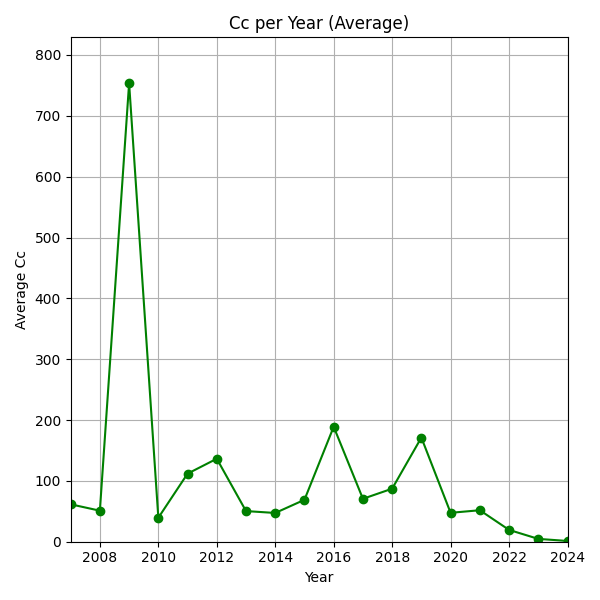
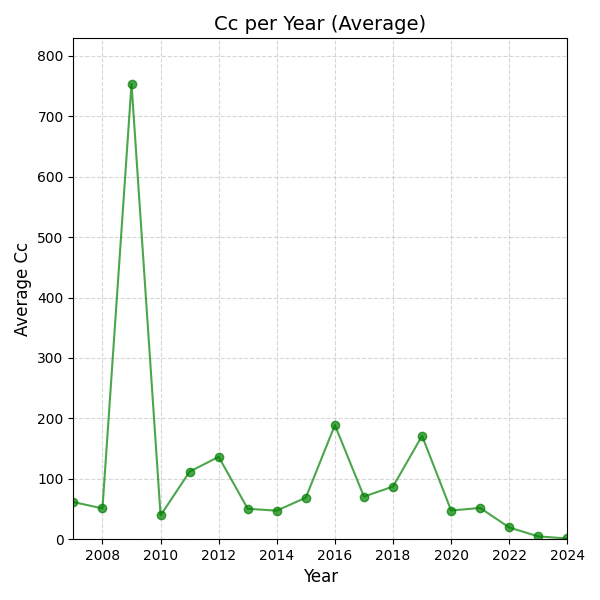
Fix script creating plots

diff --git a/bip-indicators/create_plots.py b/bip-indicators/create_plots.py
@@ -5,13 +5,38 @@ import os
 # Step 1: Read the input TSV file
 df = pd.read_csv('enriched_aggregated_papers_with_topics_and_bip_scores.csv', sep='\t')  # Replace with actual input filename
 
-# Step 2: Extract the first year if Year contains multiple years (e.g., "2022 | 2024")
+# Step 2: Extract the first year if 'Year' contains multiple years (e.g., "2022 | 2024")
 df['Year'] = df['Year'].apply(lambda x: str(x).split(' |')[0])  # Take the first year if it's a range
 df['Year'] = pd.to_numeric(df['Year'], errors='coerce')  # Convert to numeric and handle errors
 
-# Step 3: For pop_class, inf_class, count values not equal to 'C5' and calculate averages per year
+# Step 3: Group by 'Year' and calculate the average for 'popularity', 'influence', 'cc', and 'impulse'
+metrics = ['popularity', 'influence', 'cc', 'impulse']
+yearly_metrics = df.groupby('Year')[metrics].mean()
 
-# Function to count occurrences where class is not 'C5' for each year
+# Step 4: Create output folder 'plots' if it doesn't exist
+output_folder = 'plots'
+if not os.path.exists(output_folder):
+    os.makedirs(output_folder)
+
+# Step 5: Plot the results for each metric and save the figures
+for metric in metrics:
+    plt.figure(figsize=(6, 6))  # Square figure
+    plt.plot(yearly_metrics.index, yearly_metrics[metric], marker='o', linestyle='-', color='green', alpha=0.7)
+    plt.title(f'{metric.capitalize()} per Year (Average)', fontsize=14)
+    plt.xlabel('Year', fontsize=12)
+    plt.ylabel(f'Average {metric.capitalize()}', fontsize=12)
+    
+    # Set x-axis limits from min to max year and y-axis to start from 0
+    plt.xlim(yearly_metrics.index.min(), yearly_metrics.index.max())
+    plt.ylim(0, yearly_metrics[metric].max() * 1.1)  # To add some space above the max value
+
+    plt.grid(True, linestyle='--', alpha=0.5)
+    plt.tight_layout()
+    # Save the plot in the 'plots' folder
+    plt.savefig(f'{output_folder}/{metric}_per_year_avg.png')
+    plt.close()
+
+# Step 6: For pop_class, inf_class, count values not equal to 'C5' and calculate averages per year
 def count_not_C5(df, class_column):
     return df[df[class_column] != 'C5'].groupby('Year').size()
 
@@ -25,10 +50,10 @@ count_metrics = pd.DataFrame({
     'inf_class_count': inf_class_count
 })
 
-# Step 4: Plot the number of papers considered per year
+# Step 7: Plot the number of papers considered per year
 papers_per_year = df.groupby('Year').size()
 
-# Step 5: Create the bar chart for total papers, popular works, and influential works per year
+# Step 8: Create the bar chart for total papers, popular works, and influential works per year
 # Combine the metrics for easy plotting
 combined_metrics = pd.DataFrame({
     'Total papers': papers_per_year,
@@ -36,12 +61,12 @@ combined_metrics = pd.DataFrame({
     'Influential papers': inf_class_count
 })
 
-# Plot the bar chart
+# Plot the enhanced bar chart
 plt.figure(figsize=(10, 6))  # Wider figure for better spacing
 ax = combined_metrics.plot(kind='bar', width=0.8, edgecolor='black', alpha=0.7, color=['blue', 'green', 'red'], ax=plt.gca())
 
 # Add title and labels
-# plt.title('Total Papers, Popular Works, and Influential Works per Year', fontsize=14)
+plt.title('Total Papers, Popular Works, and Influential Works per Year', fontsize=14)
 plt.xlabel('Publication year', fontsize=12)
 plt.ylabel('Num. of papers', fontsize=12)
 plt.xticks(rotation=45, ha='right', fontsize=10)
@@ -60,11 +85,7 @@ plt.legend(title_fontsize=12, loc='upper left', fontsize=10)
 plt.tight_layout()
 
 # Save the enhanced bar chart in the 'plots' folder
-output_folder = 'plots'
-if not os.path.exists(output_folder):
-    os.makedirs(output_folder)
-
 plt.savefig(f'{output_folder}/total_popular_influential_works_per_year_enhanced.png')
 plt.close()
 
-print(f"Enhanced plot has been saved to the '{output_folder}' folder.")
+print(f"All plots have been saved to the '{output_folder}' folder.")
